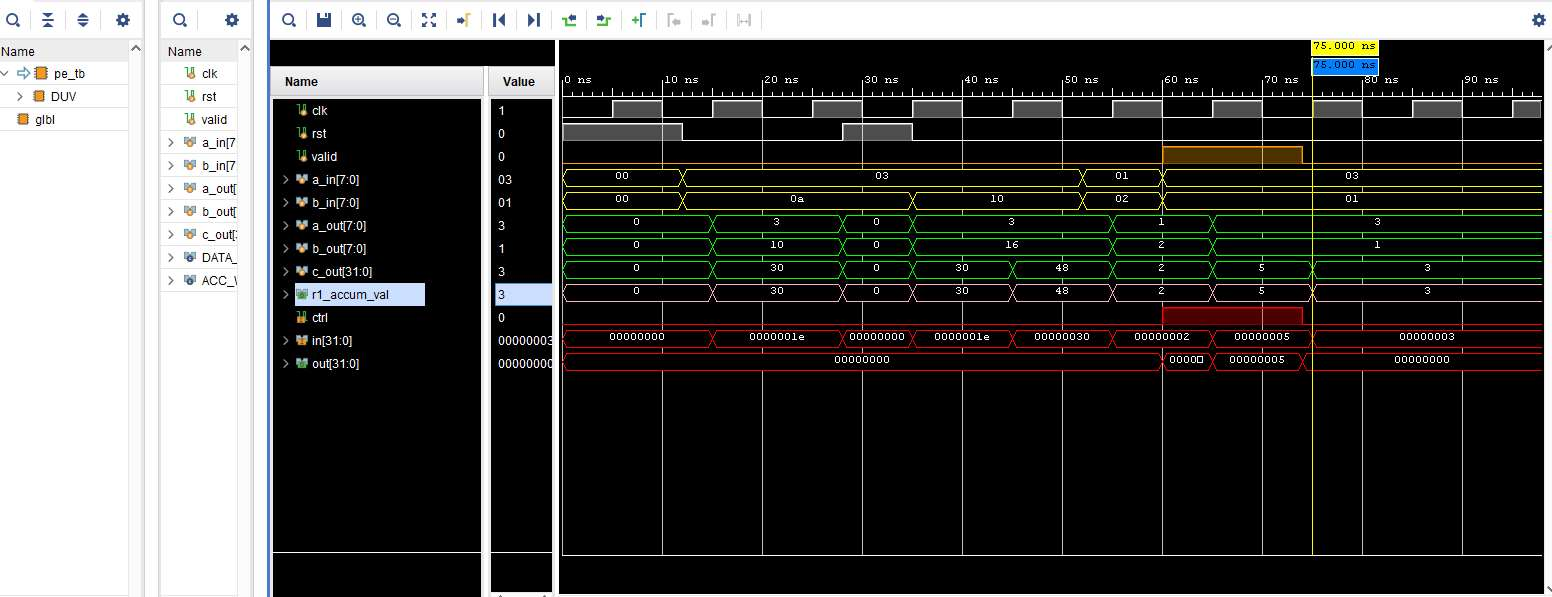
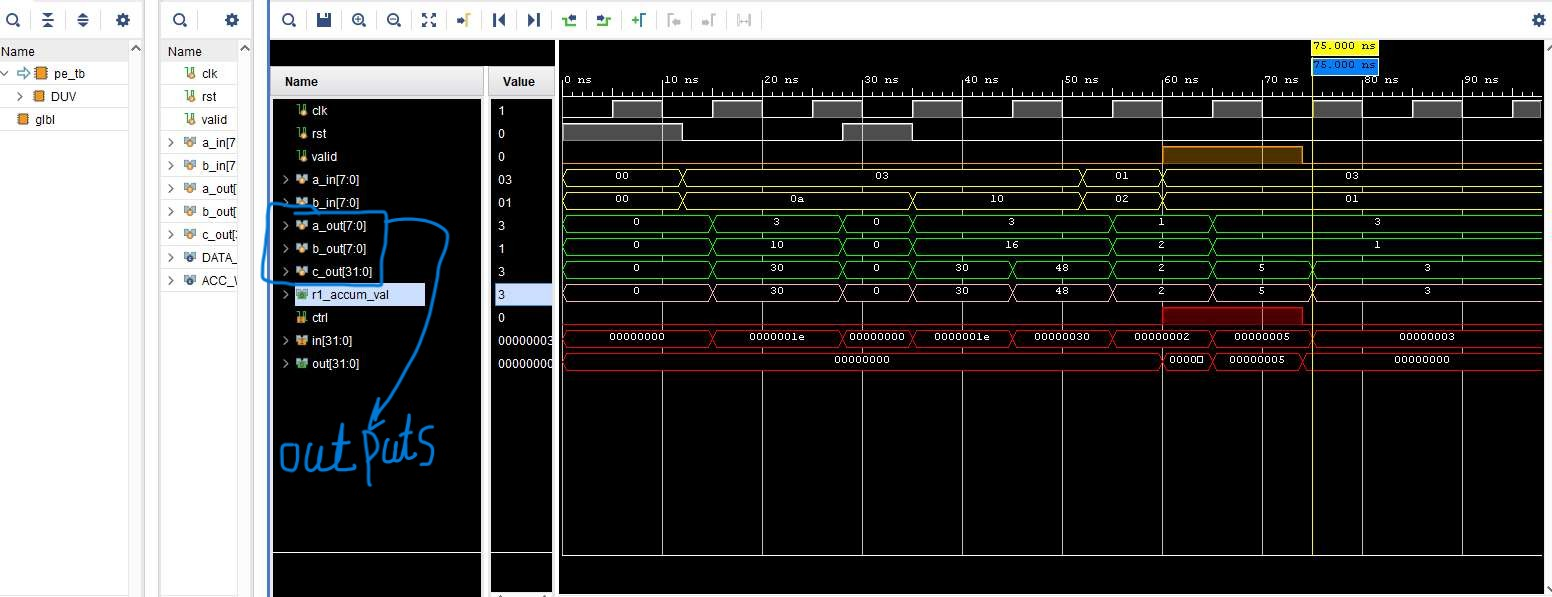
(mod:readme):PE module verification report + images

diff --git a/README.md b/README.md
@@ -1,26 +1,19 @@
 # tpu-systolic-array-4x4
 
-## processing element(PE) verification
-PE described in previous commit now it's time to verify it via a testbench
+## verification report of Processing Element module
 
----
-
-### Step 1: Define Verification Scenarios
-different functionalitis of PE module is as follow:
+in **pe_tb.sv** file PE module is verified, Targeting various functionalities of the unit including:
 - **Reset behaviour**
-- **Single Mac operation**
-- **accumulation sequence**: assert valid mux_21 control 
-- **data forwarding**: after one clock the value of a_in appears in a_out and similary the same function for b_in and b_out.
-- **boundry values**: make sure there is no over-flow issue.
+- **single Mac Operation** 
+- **accumulate sequence**
+- **data forwarding**
+---
+**Note:** in **(mod): update readme and start PE verification process** commit these functionalities are explained.
 
-### step 2: structing a self-checking testbench
-which include:
-- **clock and reset generation**
-- **device under verification(DUV) instantiation**
-- **stimulus generation**
-- **self-checking(scoreboard with golden data)**
+## demonstration of waveforms and scoreboard
 
+![waveforms](./img/PE_testbench_waveforms.jpg)
 
-
+![scoreboard](./img/PE_testbench_scoreboard.png)
 
 
